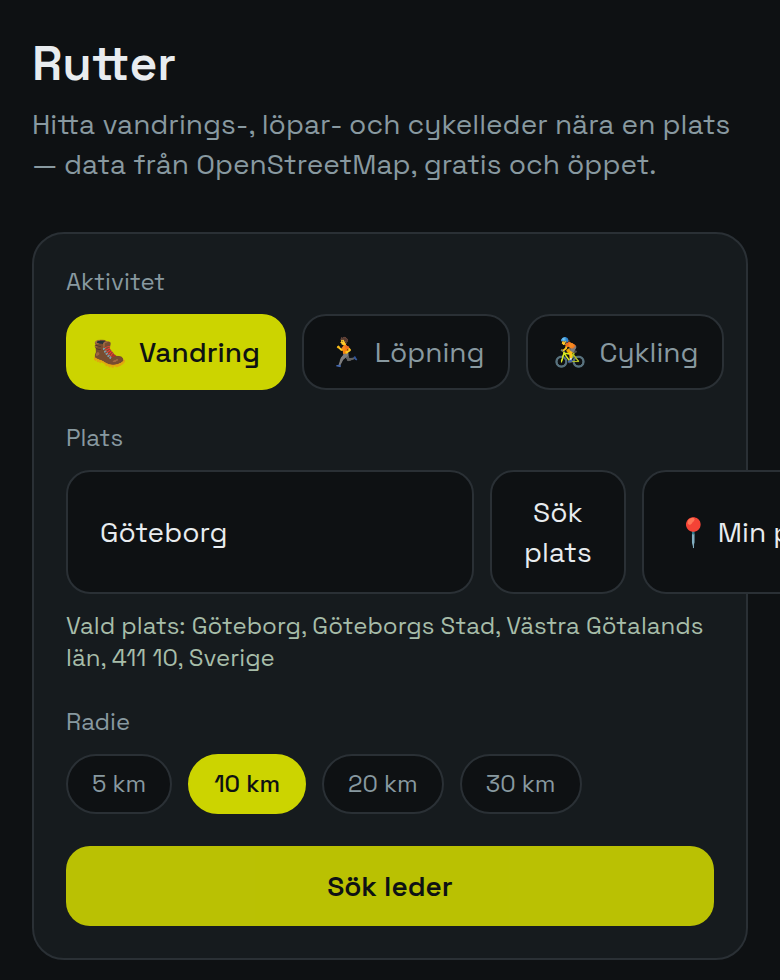
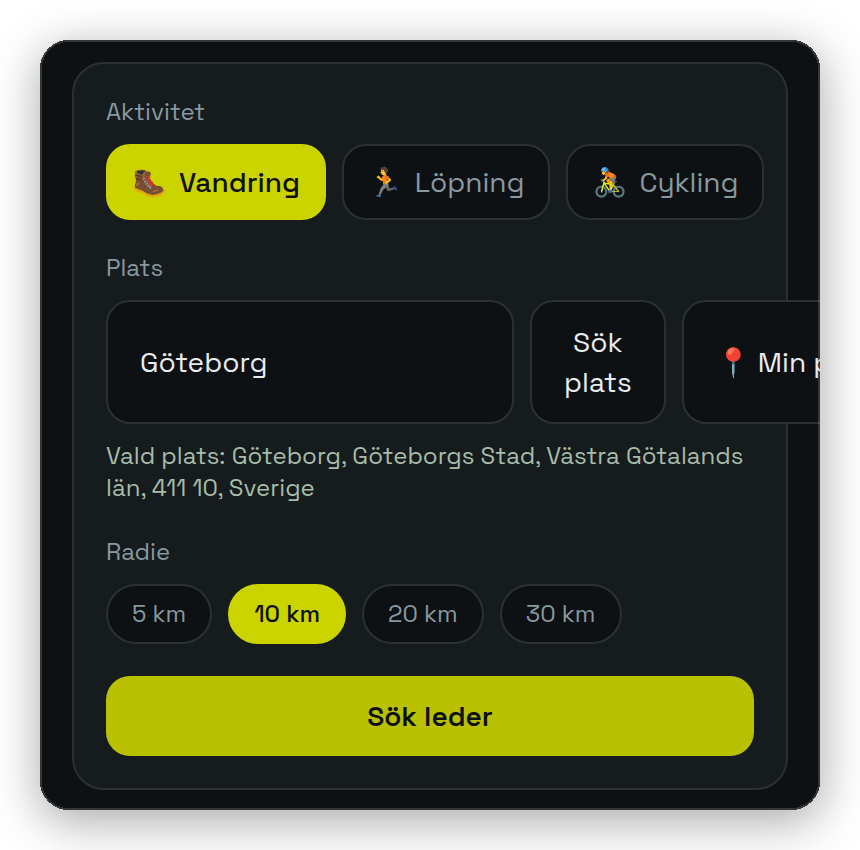
Redesign the feature-showcase email: hero + grid, framed screenshots
Screenshots were raw full-page captures that read too large/heavy
next to the copy. Replaced with tight crops of just the compelling
card per feature, framed with rounded corners + a soft shadow baked
in via PIL (email clients don't reliably support box-shadow).
Restructured from one long repeating list into a hero section for
the new weekly planner plus a 2-column grid for the rest, with a
clearer type scale (eyebrow label, bold headline, smaller grid
captions). Pending Daniel's review before this goes live.

Claude-Session: https://claude.ai/code/session_01MLNjMTtPp3jz13pFLWKRu9

diff --git a/app/src/lib/feature-showcase-email.ts b/app/src/lib/feature-showcase-email.ts
@@ -1,60 +1,85 @@
 // "Vad är nytt i DL Trainer" — kampanjmejl med riktiga skärmdumpar av appen,
 // separat mall från den vanliga fria-text-nyhetsbrevet (renderNewsletterHtml)
-// eftersom den här har en helt annan struktur (bildkort per funktion, inte
-// fritext). Skärmdumparna ligger i public/marketing/ och nås via en publik
-// URL — e-postklienter kan inte visa lokala filer eller (pålitligt) base64,
-// bilder måste vara hostade.
+// eftersom den här har en helt annan struktur (hero + rutnät av bildkort, inte
+// fritext). Bilderna i public/marketing/ är beskurna till bara det starkaste
+// kortet per sida och inramade (rundade hörn + mjuk skugga inbränt i själva
+// PNG:n via PIL) eftersom box-shadow inte är pålitligt i e-postklienter.
+// Nås via en publik URL — e-postklienter kan inte visa lokala filer eller
+// (pålitligt) base64, bilder måste vara hostade.
 
 type Feature = { image: string; title: string; body: string }
 
-const FEATURES: Feature[] = [
-  {
-    image: 'veckoplan.png',
-    title: '🆕 Din tränare planerar veckan åt dig',
-    body: 'Sätt ett mål tillsammans med AI-coachen, så får du "kör dessa denna veckan" istället för ett stelt schema månader framåt. Bocka av passen du kör — så ser du svart på vitt hur väl du följer planen, vecka för vecka.',
-  },
+// Ledande funktion — den nya veckoplaneraren — får en egen, större
+// hjälte-sektion istället för att stå i ledet med de andra.
+const HERO: Feature = {
+  image: 'veckoplan.png',
+  title: 'Din tränare planerar veckan åt dig',
+  body: 'Sätt ett mål tillsammans med AI-coachen, så får du "kör dessa denna veckan" istället för ett stelt schema månader framåt. Bocka av passen du kör — så ser du svart på vitt hur väl du följer planen, vecka för vecka.',
+}
+
+const GRID: Feature[] = [
   {
     image: 'oversikt.png',
     title: 'Allt på ett ställe',
-    body: 'Streak, veckobelastning mot ditt mål, senaste passet och en kalender över allt du tränat — sammanfattat varje gång du öppnar appen, ingen jakt efter siffror.',
+    body: 'Streak och veckobelastning mot ditt mål, sammanfattat varje gång du öppnar appen.',
   },
   {
     image: 'halsa.png',
     title: 'Se din form utvecklas',
-    body: 'VO2max, vilopuls, sömn, HRV och Body Battery samlat på ett ställe — alltid tydligt märkt om värdet kommer från Garmin eller är ett eget estimat, aldrig gissningar utan källa.',
+    body: 'VO2max, vilopuls, sömn och HRV — alltid märkt med källa, aldrig gissningar.',
   },
   {
     image: 'mat.png',
     title: 'Logga mat på tre sekunder',
-    body: 'Sök, fota en rätt eller välj bland dina vanligaste — se direkt hur det du ätit står mot vad du bränt idag. Ingen manuell kalorijakt.',
+    body: 'Sök, fota eller välj bland dina vanligaste — se direkt ätit mot bränt.',
   },
   {
     image: 'rutter.png',
-    title: 'Hitta nya vägar att springa',
-    body: 'Sök löp-, cykel- och vandringsleder var du än befinner dig — gratis data från OpenStreetMap, ingen betallösning som stänger ute tredjepartsappar.',
+    title: 'Hitta nya vägar',
+    body: 'Löp-, cykel- och vandringsleder var du än befinner dig, helt gratis.',
   },
   {
     image: 'rekord.png',
-    title: 'Dina personbästa, alltid uppdaterade',
-    body: 'Snabbaste 1/3/5/10 km, längsta pass, längsta streak — per sport, uträknat automatiskt varje gång du loggar ett nytt pass.',
+    title: 'Dina personbästa',
+    body: 'Snabbaste 1/3/5/10 km, längsta pass, längsta streak — per sport.',
   },
 ]
 
-function featureCardHtml(f: Feature, appUrl: string): string {
+function heroHtml(f: Feature, appUrl: string): string {
   return `
-  <tr><td style="padding:0 32px 28px;">
-    <table width="100%" cellpadding="0" cellspacing="0">
-      <tr><td align="center" style="padding-bottom:14px;">
-        <img src="${appUrl}/marketing/${f.image}" width="220" alt="${f.title}"
-             style="display:block;width:220px;max-width:100%;height:auto;border-radius:14px;border:1px solid #2a2e30;" />
-      </td></tr>
-      <tr><td>
-        <p style="margin:0 0 6px;color:#0e1113;font-size:16px;font-weight:700;">${f.title}</p>
-        <p style="margin:0;color:#4a4f52;font-size:14px;line-height:1.55;">${f.body}</p>
-      </td></tr>
-    </table>
+  <tr><td style="padding:0 32px 8px;">
+    <p style="margin:0 0 8px;color:#8a9a00;font-size:11px;font-weight:700;letter-spacing:0.08em;">🆕&nbsp;&nbsp;NYTT I APPEN</p>
+    <p style="margin:0 0 10px;color:#0e1113;font-size:22px;font-weight:800;line-height:1.25;">${f.title}</p>
+    <p style="margin:0 0 20px;color:#4a4f52;font-size:14px;line-height:1.6;">${f.body}</p>
   </td></tr>
-  <tr><td style="padding:0 32px;"><div style="border-top:1px solid #eee;"></div></td></tr>`
+  <tr><td style="padding:0 32px 32px;" align="center">
+    <img src="${appUrl}/marketing/${f.image}" width="360" alt="${f.title}"
+         style="display:block;width:360px;max-width:100%;height:auto;" />
+  </td></tr>`
+}
+
+function gridCellHtml(f: Feature | null, appUrl: string): string {
+  if (!f) return '<td width="50%" style="padding:0 8px;"></td>'
+  return `
+  <td width="50%" valign="top" style="padding:0 8px 24px;">
+    <img src="${appUrl}/marketing/${f.image}" width="192" alt="${f.title}"
+         style="display:block;width:100%;max-width:192px;height:auto;margin:0 0 12px;" />
+    <p style="margin:0 0 4px;color:#0e1113;font-size:14px;font-weight:700;">${f.title}</p>
+    <p style="margin:0;color:#4a4f52;font-size:12.5px;line-height:1.5;">${f.body}</p>
+  </td>`
+}
+
+function gridRowsHtml(items: Feature[], appUrl: string): string {
+  const rows: string[] = []
+  for (let i = 0; i < items.length; i += 2) {
+    const a = items[i]
+    const b = items[i + 1] ?? null
+    rows.push(`<tr>${gridCellHtml(a, appUrl)}${gridCellHtml(b, appUrl)}</tr>`)
+  }
+  return `
+  <tr><td style="padding:8px 24px 0;">
+    <table width="100%" cellpadding="0" cellspacing="0">${rows.join('')}</table>
+  </td></tr>`
 }
 
 export function renderFeatureShowcaseHtml({
@@ -67,27 +92,33 @@ export function renderFeatureShowcaseHtml({
   unsubscribeUrl: string
 }): string {
   const appUrl = process.env.NEXT_PUBLIC_APP_URL!
-  const featuresHtml = FEATURES.map(f => featureCardHtml(f, appUrl)).join('')
 
   return `<!doctype html>
 <html>
-<body style="margin:0;padding:0;background:#f4f4f2;font-family:-apple-system,BlinkMacSystemFont,'Segoe UI',Roboto,sans-serif;">
-  <table width="100%" cellpadding="0" cellspacing="0" style="padding:24px 0;">
+<body style="margin:0;padding:0;background:#e8e8e5;font-family:-apple-system,BlinkMacSystemFont,'Segoe UI',Roboto,sans-serif;">
+  <table width="100%" cellpadding="0" cellspacing="0" style="padding:32px 0;">
     <tr><td align="center">
-      <table width="480" cellpadding="0" cellspacing="0" style="background:#ffffff;border-radius:16px;overflow:hidden;">
+      <table width="480" cellpadding="0" cellspacing="0" style="background:#ffffff;border-radius:20px;overflow:hidden;">
 
-        <tr><td style="background:#0e1113;padding:32px 32px 28px;">
-          <span style="color:#ccd400;font-size:24px;font-weight:700;">DL Trainer</span>
-          <p style="margin:12px 0 0;color:#c9cccd;font-size:15px;line-height:1.5;">
+        <tr><td style="background:#0e1113;padding:36px 32px 30px;">
+          <span style="color:#ccd400;font-size:24px;font-weight:800;letter-spacing:-0.02em;">DL Trainer</span>
+          <p style="margin:14px 0 0;color:#c9cccd;font-size:15px;line-height:1.55;">
             Hej ${name}! Det har hänt en hel del i appen sedan du var inne senast — här är en snabb rundtur på det bästa.
           </p>
         </td></tr>
 
-        <tr><td style="height:28px;"></td></tr>
+        <tr><td style="height:32px;"></td></tr>
 
-        ${featuresHtml}
+        ${heroHtml(HERO, appUrl)}
 
-        <tr><td style="padding:28px 32px 8px;" align="center">
+        <tr><td style="padding:0 32px;"><div style="border-top:1px solid #eee;"></div></td></tr>
+        <tr><td style="padding:24px 32px 0;">
+          <p style="margin:0;color:#9a9d9f;font-size:11px;font-weight:700;letter-spacing:0.08em;">OCH MER</p>
+        </td></tr>
+
+        ${gridRowsHtml(GRID, appUrl)}
+
+        <tr><td style="padding:16px 32px 8px;" align="center">
           <a href="${appUrl}/dashboard" style="display:inline-block;background:#ccd400;color:#0e1113;padding:14px 28px;border-radius:12px;text-decoration:none;font-weight:700;font-size:15px;">
             Logga in och se vad som är nytt
           </a>
